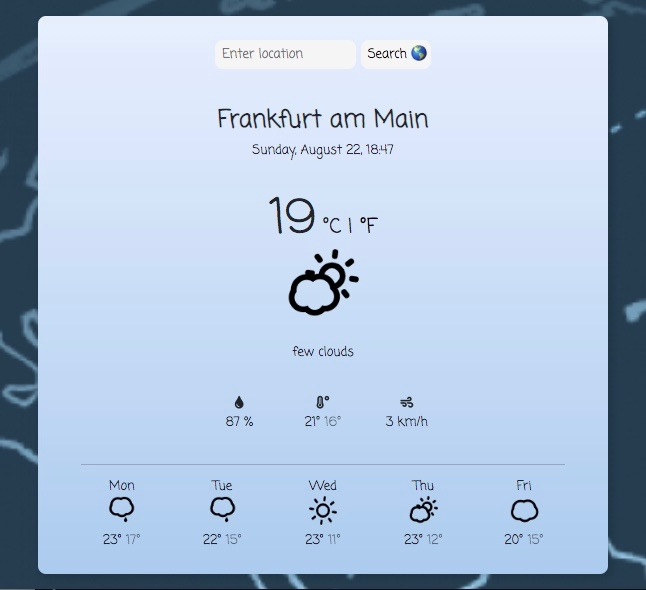
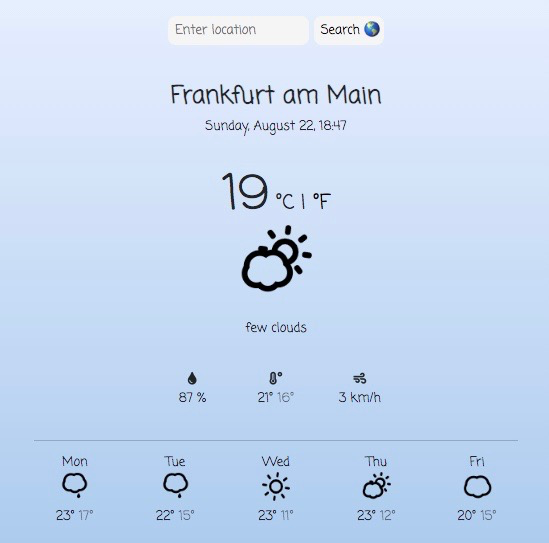
updated images (size)

diff --git a/index.html b/index.html
@@ -47,11 +47,9 @@
       <div class="row mb-5">
         <div class="col d-none d-lg-block">
           <img
-            src="images/dictionaryapp.png"
+            src="images/Bildschirmfoto 2021-08-22 um 21.01.21.png"
             class="img-fluid rounded"
             alt="dictionary-project"
-            width="560"
-            height="560"
           />
         </div>
         <div class="col">
@@ -82,11 +80,9 @@
         </div>
         <div class="col d-none d-lg-block">
           <img
-            src="images/wetter.png"
+            src="images/weatherapp.png"
             class="img-fluid rounded"
             alt="weather-project"
-            width="560"
-            height="560"
           />
         </div>
       </div>
